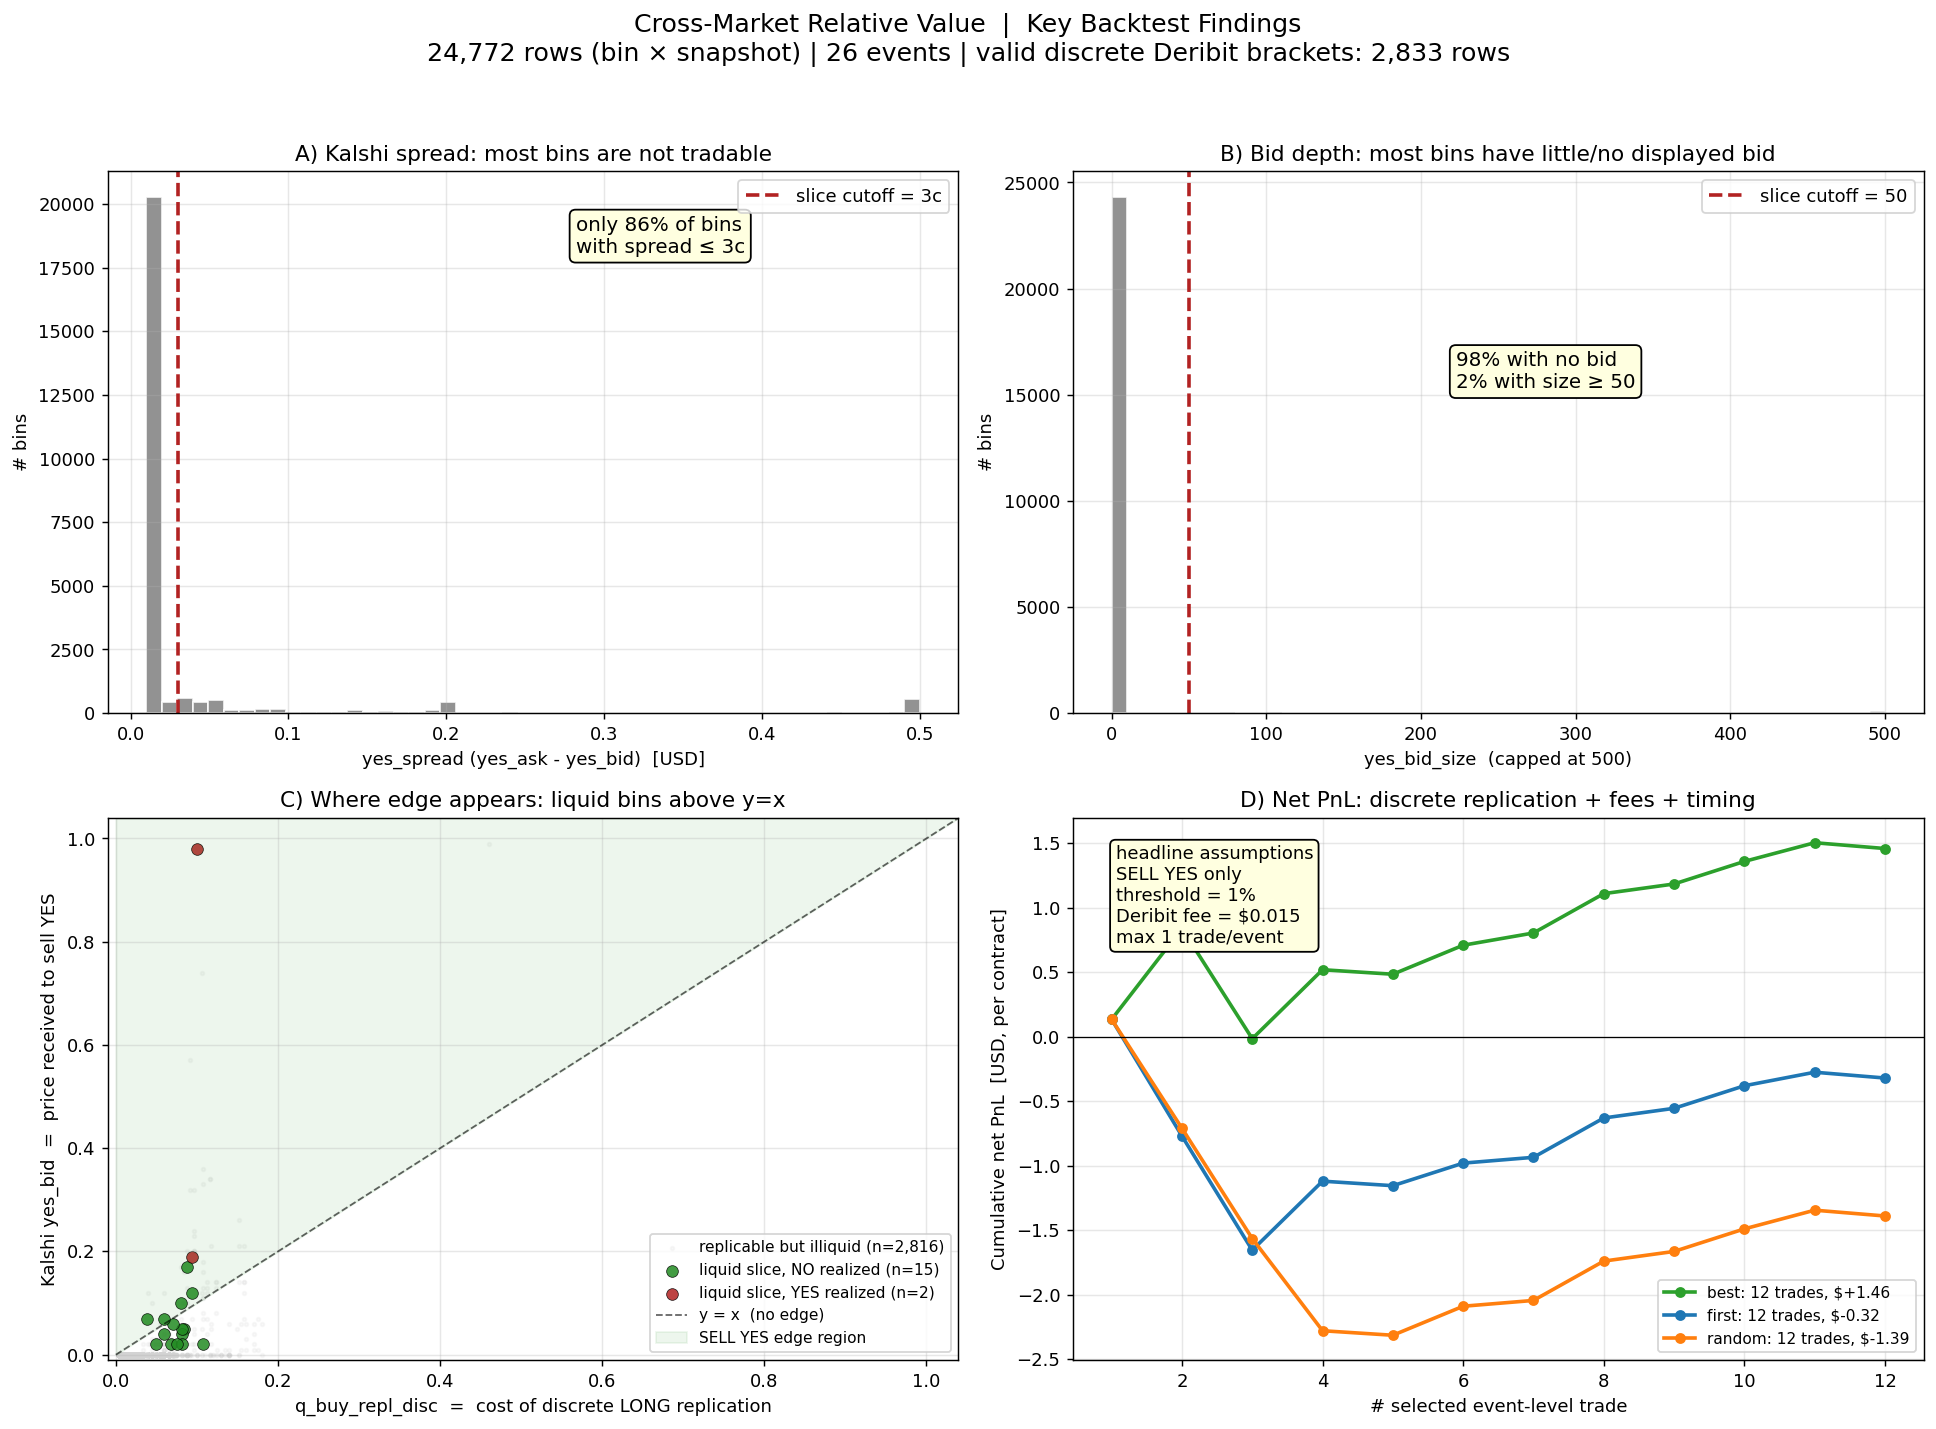
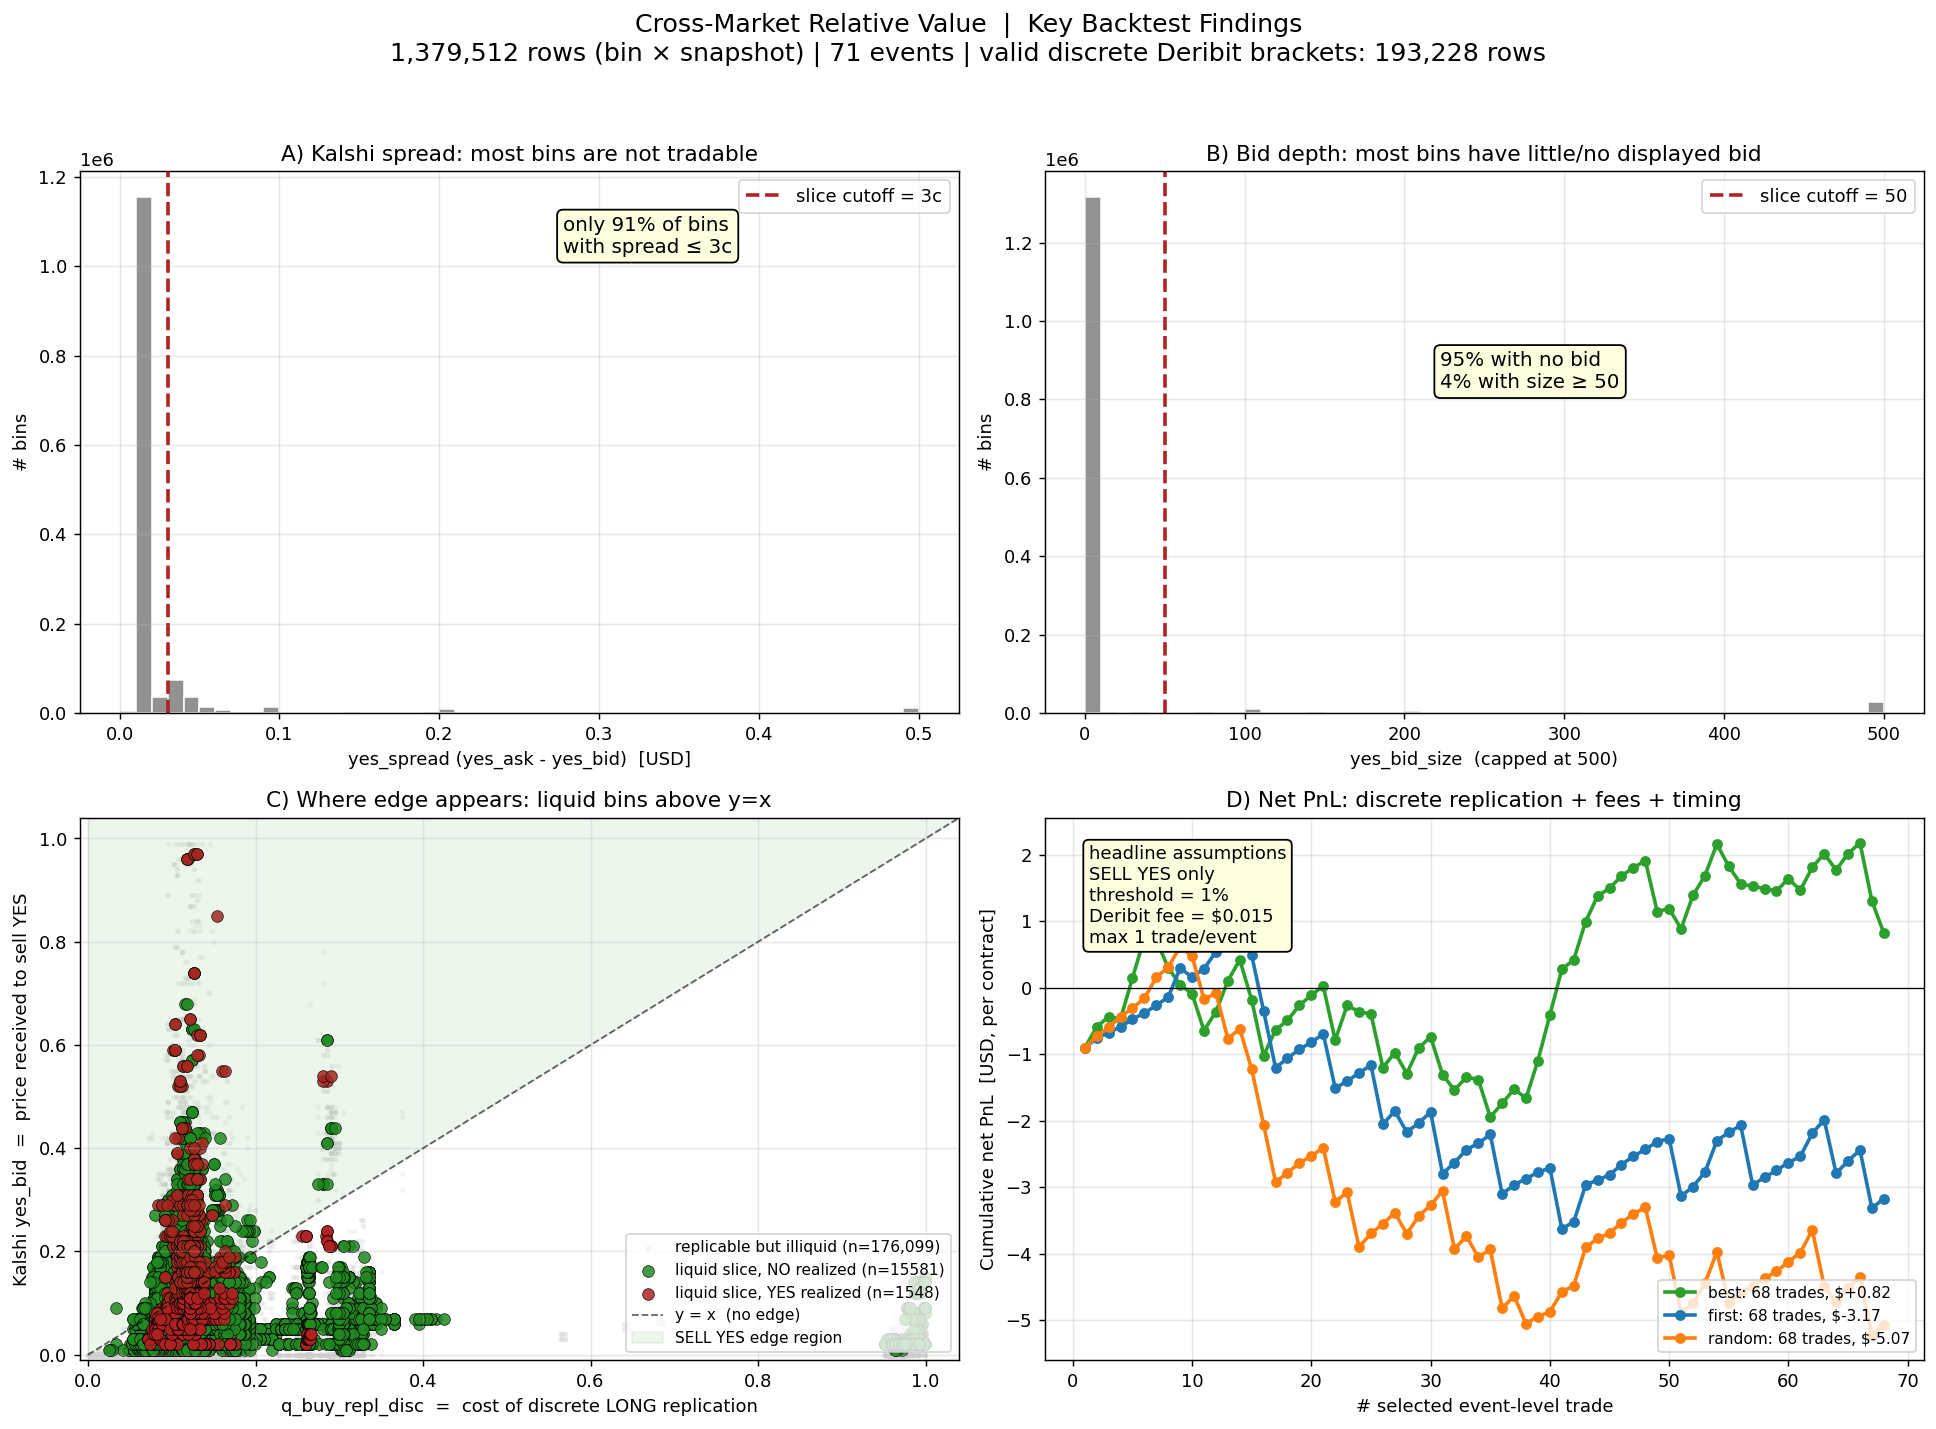
Rewrite README as a narrated problem→solution journey; regenerate findings.png
The README read as a clean methodology doc and embedded a stale findings.png
from the old 60s backtest, contradicting the canonical numbers. Replace the
linear "Methodology" section with a narrated arc of the eight problems that
each broke the previous design (market mismatch → VLT → SVI → executable Q →
discrete replication → cherry-picking artifact → event-driven collection →
SVI quality gating → reproducibility), ending at the current negative result.

Regenerate findings.png from the canonical event-driven CSV so the figure
matches the headline (71 events, 1.38M observations, 193,228 hedgeable).
visualize_findings.py now defaults to backtest_canonical.csv and accepts a
CSV path argument. Fix the stale "~11% of bins" limitation to 14%.

diff --git a/src/runner/visualize_findings.py b/src/runner/visualize_findings.py
@@ -8,10 +8,15 @@ The chart tells the story in four panels:
      highlighting the small liquid slice where edge appears.
   D) Net PnL under event-level timing modes (sell-YES only).
 
-Generates data/reports/findings.png. No CLI arguments are required.
+Generates data/reports/findings.png from the canonical backtest CSV.
+
+Usage:
+  python -m src.runner.visualize_findings                 # canonical run
+  python -m src.runner.visualize_findings path/to.csv     # any backtest CSV
 """
 from __future__ import annotations
 
+import sys
 from pathlib import Path
 
 import matplotlib
@@ -23,7 +28,7 @@ import pandas as pd
 from src.model.fees import kalshi_fee
 
 
-CSV = Path("data/reports/backtest.csv")
+CSV = Path(sys.argv[1]) if len(sys.argv) > 1 else Path("data/reports/backtest_canonical.csv")
 OUT = Path("data/reports/findings.png")
 
 SPREAD_MAX = 0.03   # liquid-slice spread threshold

diff --git a/README.md b/README.md
@@ -45,82 +45,128 @@ exists for a small/retail trader operating with REST API snapshots.
 
 ---
 
-## Methodology
+## The journey — problems and how I solved them
 
-### Pipeline (`src/runner/analyze.py`)
+This project is best understood as a sequence of problems, each of which broke
+the previous design and forced a more honest one. The interesting content is
+the failures, not the final pipeline.
 
-For each Kalshi event chosen at snapshot time `t`:
+### Problem 0 — The markets don't line up
 
-1. Identify the next Kalshi settlement time `T_K` (~hourly).
-2. Pick the earliest Deribit expiry `T_D > T_K` (typically next-day 08:00 UTC).
-3. Compute the put-call-parity forward `F = K + e^{rT}(C - P)` from ATM pairs.
-4. Build the OTM-only smile (puts for K<F, calls for K≥F) → invert to IV via
-   Brent's method on Black-Scholes.
-5. **Calibrate three SVI fits** (Gatheral raw form, 5 params, weighted least
-   squares):
-   - `svi_mid` from option mid-prices (theoretical baseline).
-   - `svi_bid` from bid-side prices (worst case for short Deribit hedge).
-   - `svi_ask` from ask-side prices (worst case for long Deribit hedge).
-6. For each Kalshi bin `[L, U]`, under VLT scaling (variance linear in time)
-   compute three Q-probabilities:
-   - `q_deribit = N(d2(L)) - N(d2(U))` using `svi_mid` (theoretical).
-   - `q_buy_exec = max(q_under_bid, q_under_ask)` (proxy of "cost to go long").
-   - `q_sell_exec = min(...)` (proxy of "cost to go short").
-7. **Discrete replication** (`src/model/replication_discrete.py`): find the
-   Deribit strikes `K_low ≤ L < U ≤ K_high` that bracket the bin, build the
-   actual call vertical, and compute the executable cost normalized to the
-   bin's nominal. This is the most honest "fair value executable in Deribit".
+The original idea was naive: extract a risk-neutral probability from Deribit
+at some expiry `T`, read the Kalshi contract at the same `T`, compare, trade
+the difference. **It doesn't work**, because the two instruments never share
+an expiry: Kalshi `KXBTC` only lists *hourly intraday* binaries (settled on a
+60-second BRTI average at the top of each hour), while Deribit options only
+expire at **08:00 UTC** (daily/weekly/monthly). There is no Deribit expiry at
+3pm on a Tuesday.
 
-### Backtesting (`src/runner/backtest.py`)
+**Solution:** redesign around an *intraday horizon*. Price the Kalshi bin that
+settles at `T_K` (minutes away) using the nearest Deribit expiry `T_D > T_K`
+(hours away), and bridge the gap with a term-structure assumption.
 
-For each snapshot in `data/snapshots/`:
-1. Run the full pipeline.
-2. Join each bin with its actual outcome from Kalshi's `/markets?status=settled`
-   endpoint.
-3. Compute Brier score, log loss, calibration buckets, reliability by horizon.
-4. Simulate executable PnL with:
-   - **Fees**: Kalshi official formula `ceil(0.07·p·(1−p))` + Deribit constant.
-   - **Per-event aggregation modes**: best-score (optimistic), first-opportunity
-     (realistic), random (control). Decorrelates snapshots within an event.
-   - **Liquidity grid**: spread × depth filters.
+### Problem 1 — There is no volatility at `T_K`, only at `T_D`
 
-### Event-driven data collection (`src/event_snapshotter.py`)
+The Deribit smile gives implied vol at `T_D`, not at the much shorter `T_K`.
 
-The standard collector writes every 60 seconds. The event-driven collector polls
-more frequently but only persists a snapshot when bid/ask/size quote state
-changes on Kalshi or Deribit. It writes the same raw schema, so the existing
-backtest can run on its output directory.
+**Solution:** VLT scaling (variance linear in time): assume `σ_imp(K)` is
+horizon-independent, so the implied vol read off the `T_D` smile is reused to
+compute `P^Q(L ≤ S_{T_K} ≤ U) = N(d2(L)) − N(d2(U))` under Black–Scholes at
+`T_K`. This is the central — and most contestable — modelling assumption, and
+the backtest later quantifies exactly how well it holds by horizon.
 
-```bash
-# Poll every 10 seconds, write only when quote state changes
-bash event_start.sh
+### Problem 2 — Option quotes are discrete, noisy, and incomplete
 
-# Optional overrides
-POLL_INTERVAL=5 WATCH=kalshi bash event_start.sh
-POLL_INTERVAL=2 WATCH=both HEARTBEAT_SECONDS=120 bash event_start.sh
+Raw Deribit strikes are sparse and bid/ask-noisy; a per-strike probability is
+unstable.
 
-# Stop
-bash event_stop.sh
+**Solution:** fit an **SVI raw 5-parameter** smile (`src/model/svi.py`),
+OTM-only (puts for `K<F`, calls for `K≥F`), weighted by `1/spread`, with the
+put–call-parity forward `F = K + e^{rT}(C−P)` from ATM pairs. This yields a
+continuous, arbitrage-aware density instead of noisy point estimates. Sanity
+check enforced in the backtest: `Σ q_deribit ≈ 0.9999` over the strip.
 
-# Backtest event-driven snapshots
-bash backtest.sh --snapshots data/event_snapshots
-```
+### Problem 3 — A mid-price probability is not tradable
 
-This is still REST-based event sampling, not a true exchange WebSocket feed.
-Its purpose is to measure signal decay and reduce stale 60-second observations.
+`q_deribit` uses option *mid* prices. You cannot trade a mid: you pay the ask
+and receive the bid.
 
-### Visualization
+**Solution:** fit **three SVI curves** (`src/model/exec_price.py`) — `svi_mid`
+(theoretical), `svi_bid` (worst case shorting the Deribit hedge), `svi_ask`
+(worst case going long) — producing `q_buy_exec`/`q_sell_exec`, the actual
+cost to go long/short the replication.
 
-- **`findings.png`** — static 4-panel summary of the spread/liquidity
-  distributions and PnL realization.
-- **`notebooks/01_project_guide.ipynb`** — concise, reader-facing project guide
-  for portfolio review.
-- **Streamlit app** (`bash analytics.sh`) — interactive sliders for threshold,
-  spread, depth, fees, and aggregation mode, with live PnL recompute.
-- **Tkinter dashboard** (`bash dash.sh`) — live snapshot view (kept for
-  potential paper trading).
+### Problem 4 — Even a bid/ask probability isn't what you trade
 
-![Backtest findings](data/reports/findings.png)
+You don't trade a density; you trade *discrete Deribit verticals*. Deribit
+strikes are $500–$1000 apart; Kalshi bins are $100 wide. A Kalshi binary
+cannot be replicated — the closest construct is a call vertical paying a
+triangular ramp over a 5× wider range, with structural tracking error.
+
+**Solution:** `src/model/replication_discrete.py` finds the real strikes
+`K_low ≤ L < U ≤ K_high` bracketing each bin, builds the executable vertical,
+and prices it net of cost. **Discovery:** only **14% of bin-snapshots** have a
+valid executable bracket at all (panel A/B of the figure) — the other 86% are
+unhedgeable in practice. This single number reframed the whole project.
+
+### Problem 5 — The first backtest "made money" (it didn't)
+
+An early backtest with a "best opportunity per event" aggregation showed
+positive PnL. It was an artifact: picking, with hindsight, the best of several
+correlated snapshots inside the same event.
+
+**Solution:** the backtest (`src/runner/backtest.py`) now de-correlates
+snapshots per event with three modes — *best* (optimistic, kept only to show
+the bias), *first* (realistic timing), *random* (control) — and charges the
+**official Kalshi fee** `ceil(0.07·p·(1−p))` plus a Deribit constant. Under
+realistic timing the edge disappears (panel D). This is the project's core
+result and the reason it exists.
+
+### Problem 6 — 60-second REST snapshots are too stale to trust
+
+A fixed 60s poll mixes fresh and stale quotes and cannot measure how fast any
+signal decays.
+
+**Solution:** an **event-driven collector** (`src/event_snapshotter.py`) that
+polls fast but only persists a snapshot when bid/ask/size *state changes* on
+either venue, writing the same schema so the backtest runs unchanged on it.
+Its `changed_side` metadata is fed into the backtest to test the "edge appears
+when Kalshi moves but Deribit hasn't" hypothesis (it doesn't, materially). The
+canonical run uses this dataset.
+
+### Problem 7 — Bad SVI fits silently poison the metrics
+
+Some expiries are illiquid or stale; a bad fit produces confident-looking but
+garbage probabilities.
+
+**Solution:** an expiry **quality score** (`src/model/quality.py`) and a
+bootstrap confidence interval on the SVI fit, available as a backtest filter
+and a per-bin diagnostic.
+
+### Problem 8 — The documentation claimed numbers nothing could reproduce
+
+The earlier README headline (26 events, a different Brier, a "+$1.46" PnL)
+matched **no committed artifact**. For a research repo this is the worst kind
+of bug.
+
+**Solution:** one **canonical run** over the full event-driven dataset
+(71 settled events, 7,775 snapshots, 1,379,512 observations), its report
+committed (`data/reports/backtest_canonical.txt`), a 1-day reproducible
+subset bundled in-repo, and every number in this README/CHECKPOINT traced to
+it. In the process I found and now disclose that the 20% Brier "win" is
+amplified by the 0.56% YES base rate, not by large-probability skill.
+
+### Where it stands now
+
+The pipeline is honest end-to-end and the result is **negative**: there is no
+robust executable edge for a retail REST-API trader. That negative result,
+properly demonstrated, is the deliverable.
+
+![Backtest findings — canonical run (71 events, 1.38M observations)](data/reports/findings.png)
+
+Other views of the same run: `notebooks/01_project_guide.ipynb` (reader
+guide), the Streamlit app (`bash analytics.sh`, interactive threshold/spread/
+fee sliders), and the Tkinter dashboard (`bash dash.sh`, live snapshot view).
 
 ---
 
@@ -291,7 +337,7 @@ gaps before any live use:
 - Adverse selection: signals that survive long enough for a 60s pipeline to
   detect are likely already taken or are toxic flow.
 - Deribit option spreads outside ATM are wide; the executable replication
-  set is small (~11% of bins).
+  set is small (14% of bin-snapshots in the canonical run).
 
 **Economics**
 - BRTI vs Deribit Index basis is not modeled.
